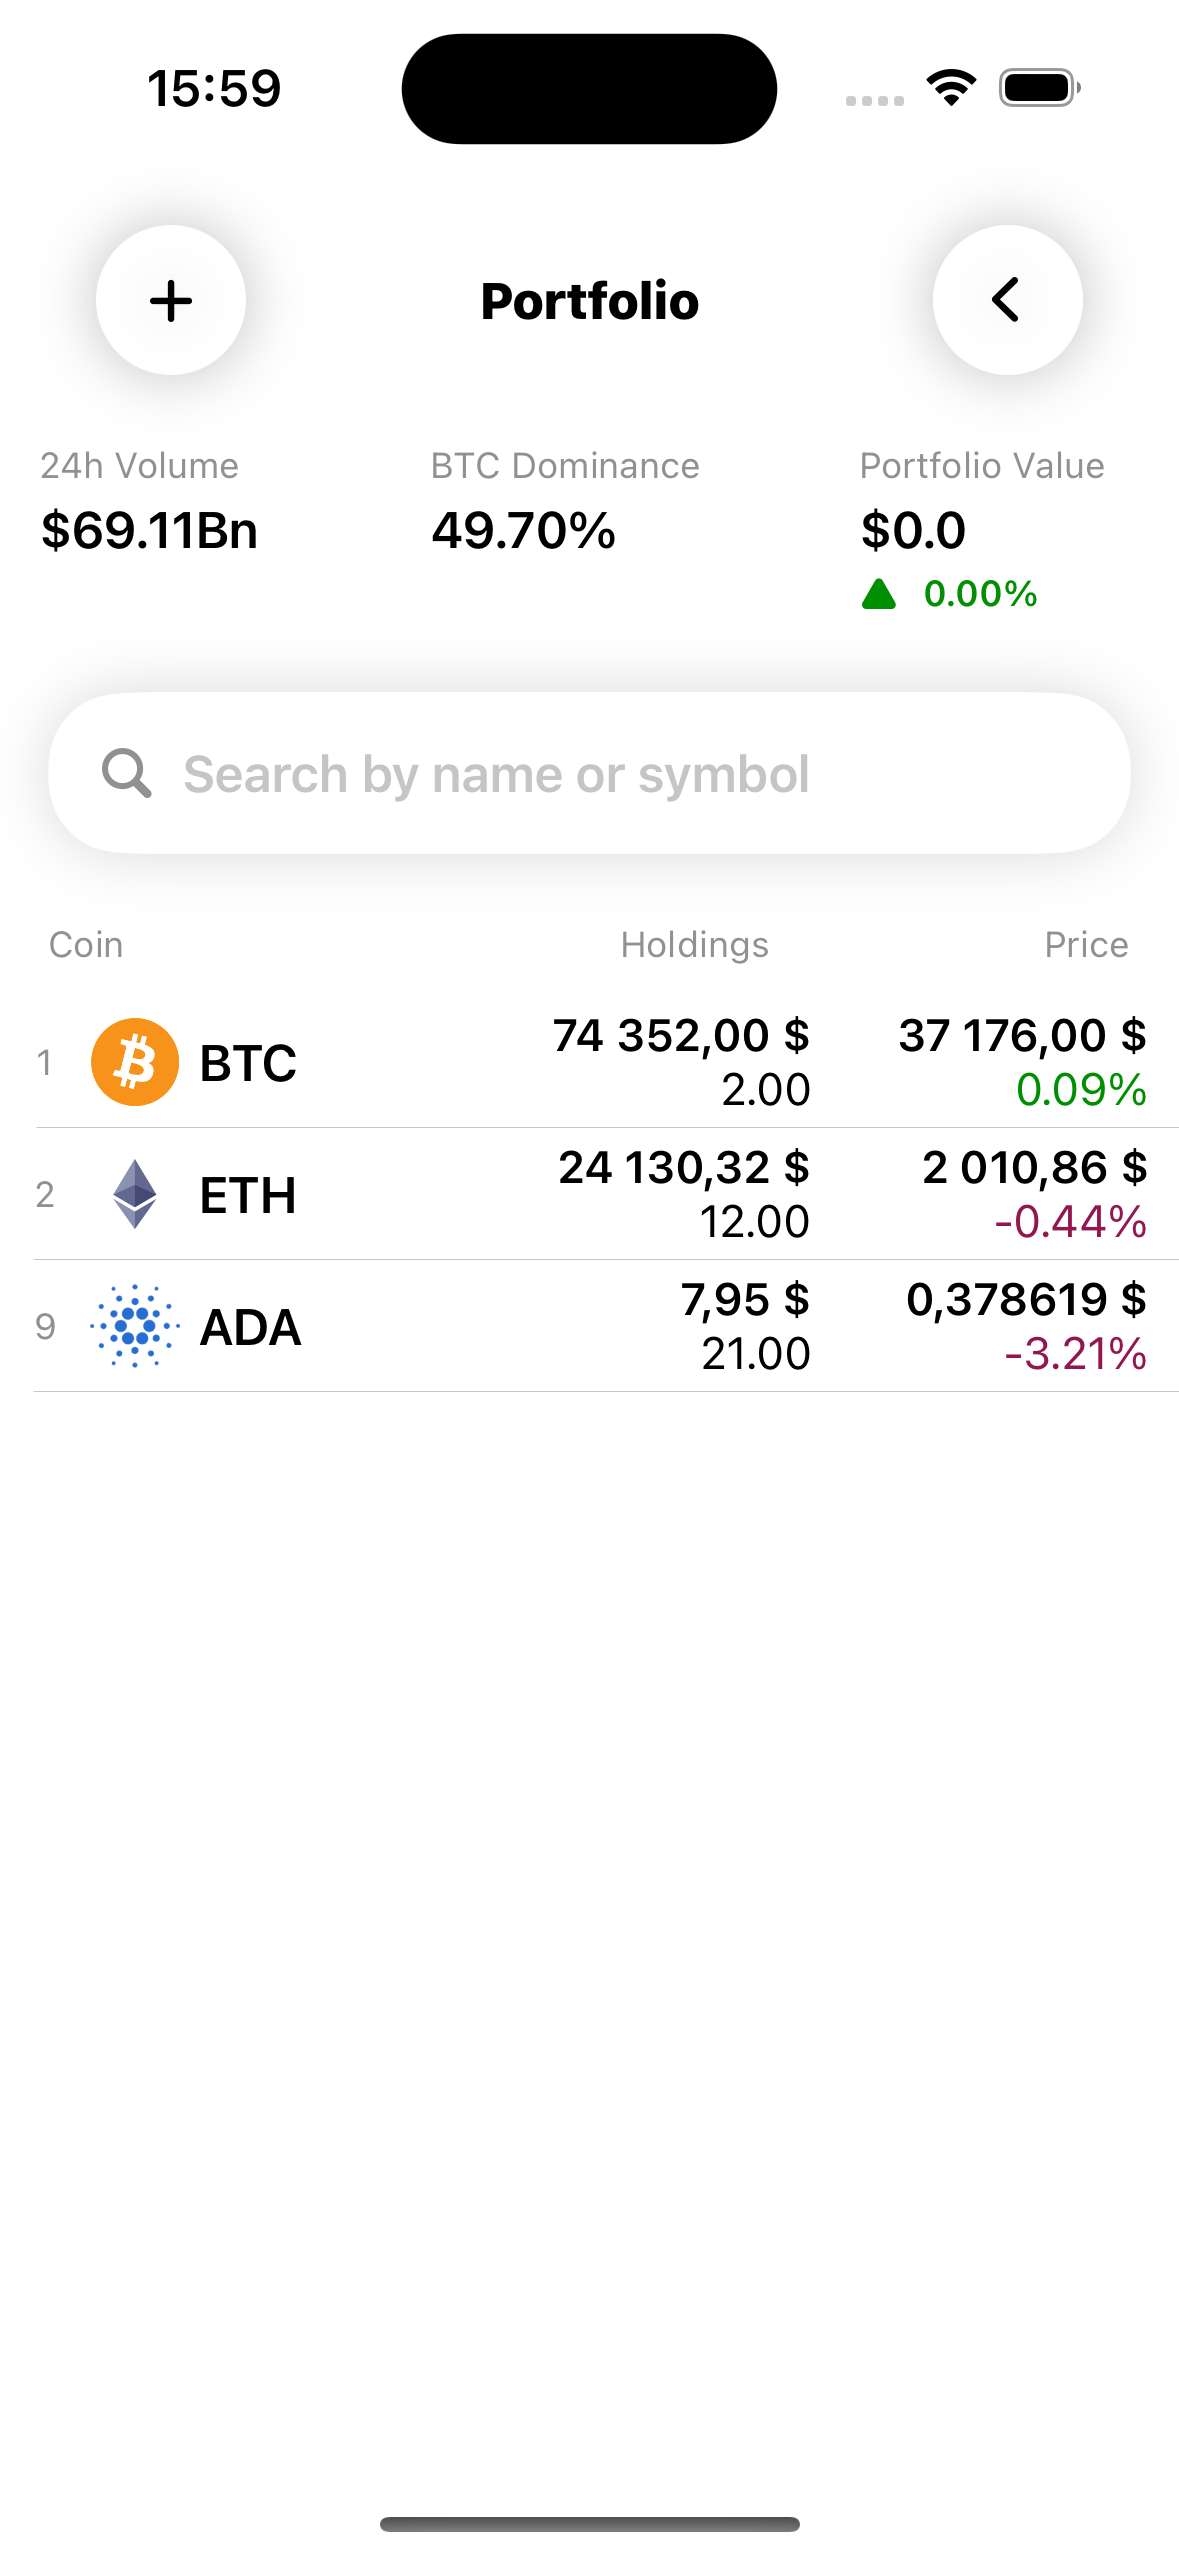
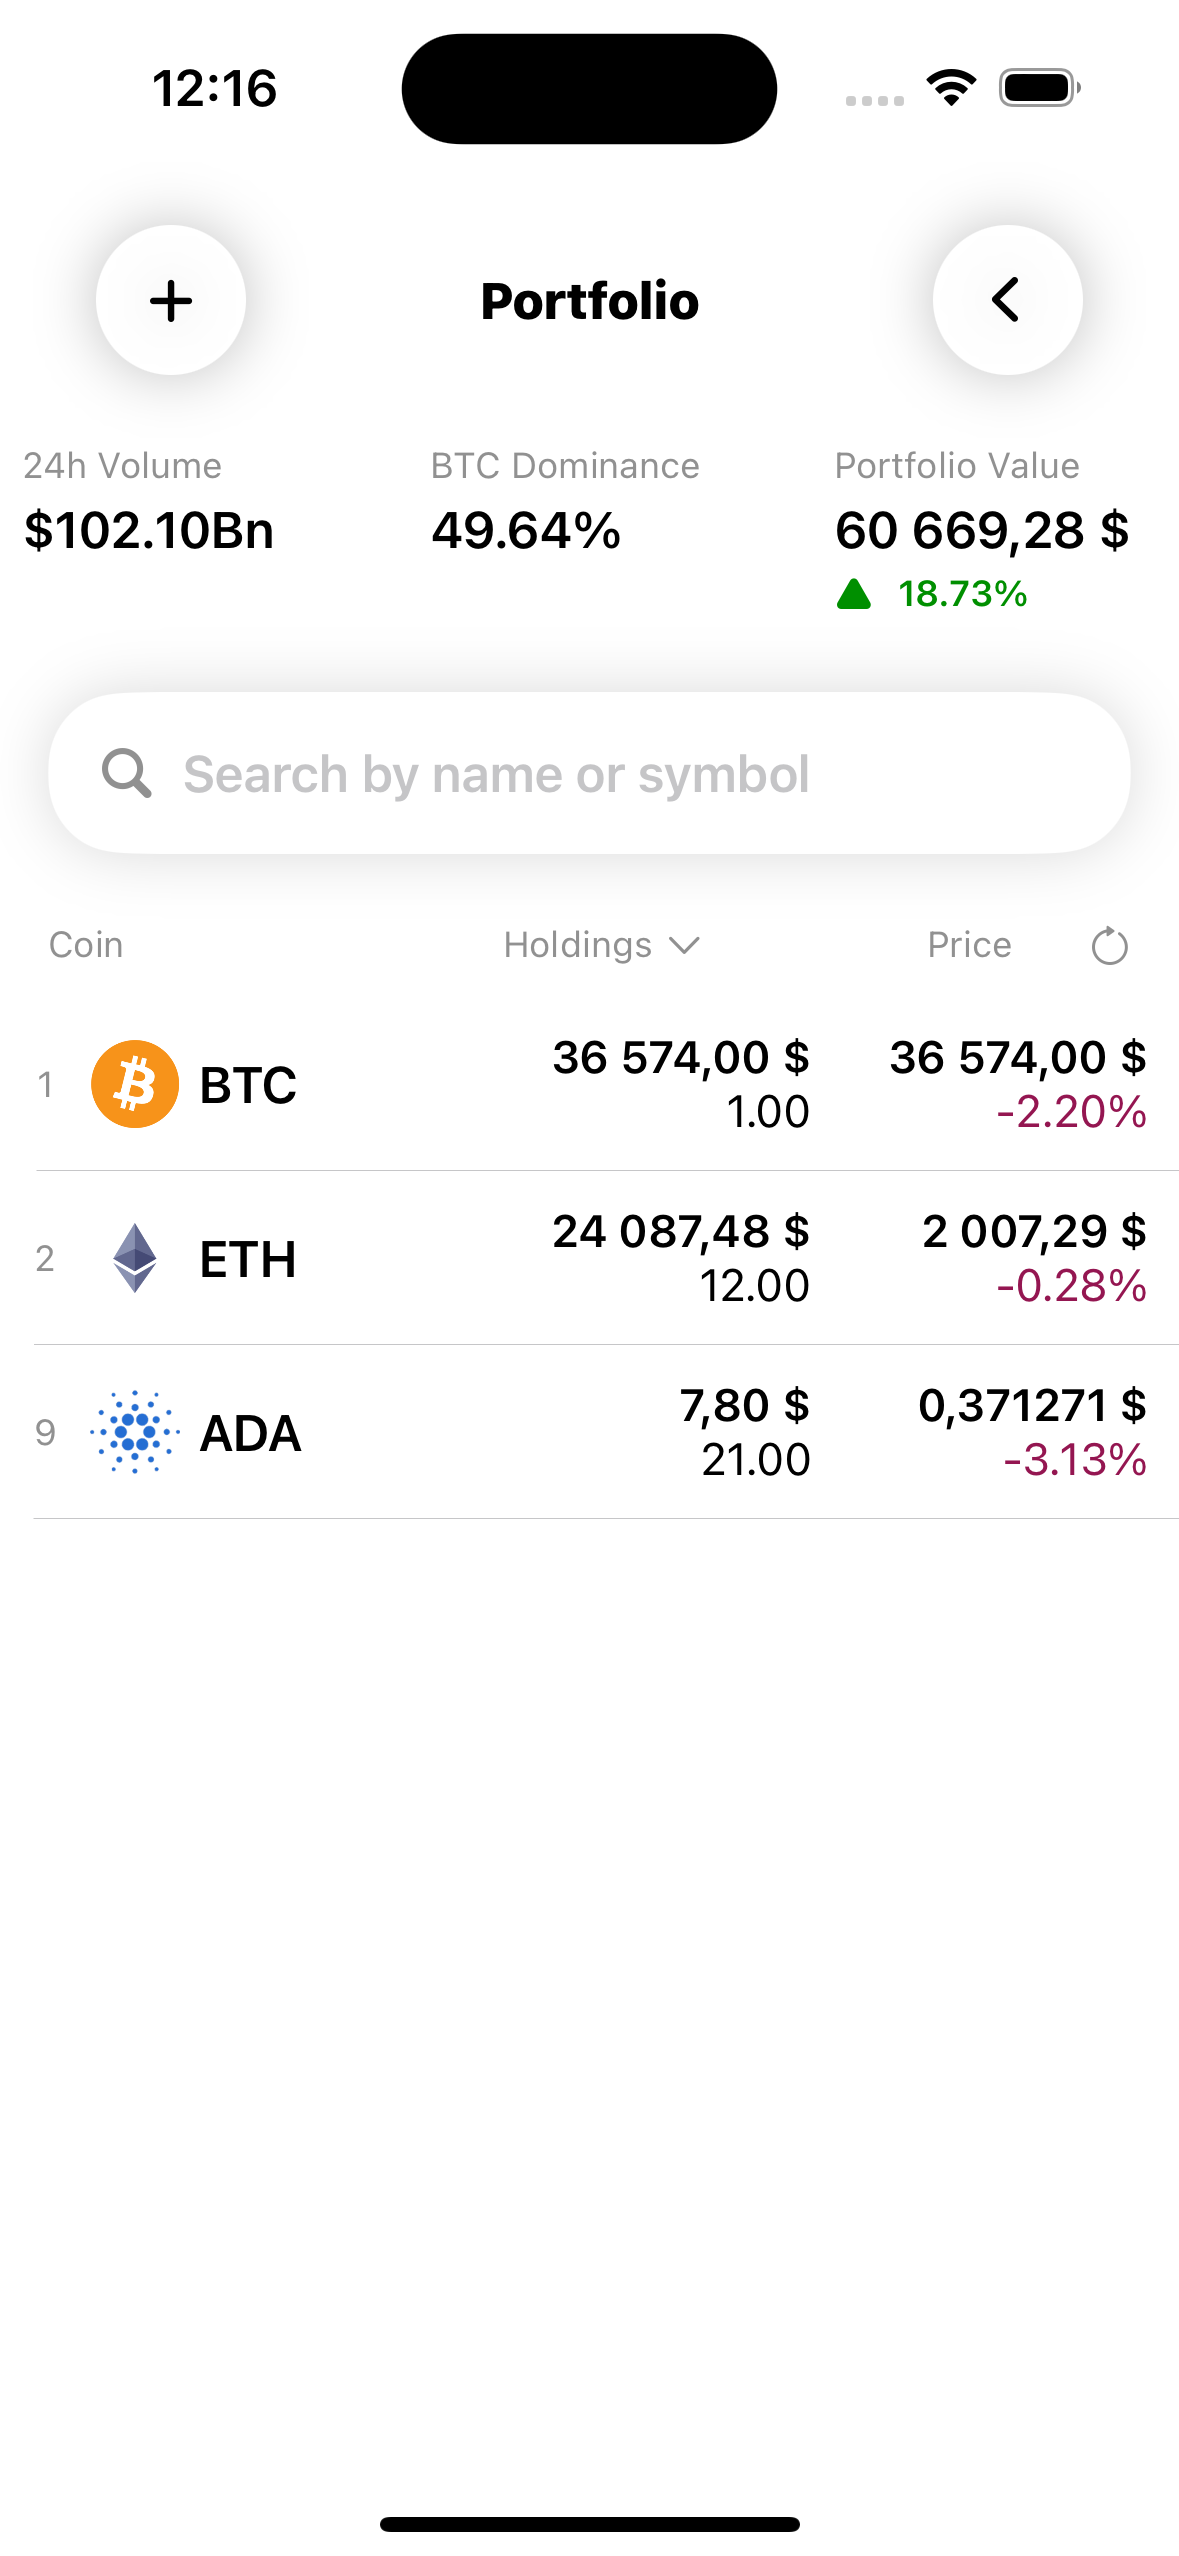
add sort

diff --git a/CryptoMonitoring/Core/HomeScreen/ViewModels/HomeViewModel.swift b/CryptoMonitoring/Core/HomeScreen/ViewModels/HomeViewModel.swift
@@ -8,22 +8,30 @@ class HomeViewModel: ObservableObject {
     @Published var portfolioCoins: [CoinModel] = []
     @Published var isLoading: Bool = false
     @Published var searchText: String = ""
+    @Published var sortOption: SortOption = .holdings
 
     private let coinDataService = CoinDataService()
     private let marketDataService = MarketDataService()
     private var portfolioDataService = PortfolioDataService()
     private var cancellables = Set<AnyCancellable>()
 
+    enum SortOption {
+        case rank, rankReversed
+        case holdings, holdingsReversed
+        case price, priceReversed
+    }
+
     init() {
         self.addSubscribers()
     }
 
+    /// Gets allCoins, portfolioCoins, statistics
     func addSubscribers() {
         // Updates allCoins
         $searchText
-            .combineLatest(coinDataService.$allCoins)
+            .combineLatest(coinDataService.$allCoins, $sortOption)
             .debounce(for: .seconds(0.5), scheduler: DispatchQueue.main)
-            .map(filterCoins)
+            .map(filterAndSortCoins)
             .sink { [weak self] (returnedCoins) in
                 self?.allCoins = returnedCoins
             }
@@ -33,7 +41,8 @@ class HomeViewModel: ObservableObject {
             .combineLatest(portfolioDataService.$savedEntitise)
             .map(mapPortfolioCoins)
             .sink { [weak self] (returnedCoins) in
-                self?.portfolioCoins = returnedCoins
+                guard let self = self else { return }
+                self.portfolioCoins = self.sortPortfolioCoinsIfNeeded(coins: returnedCoins)
             }
             .store(in: &cancellables)
         // Updates statistics
@@ -47,14 +56,24 @@ class HomeViewModel: ObservableObject {
             .store(in: &cancellables)
     }
 
+    /// Refreshes portfolio after changes
     func updatePortfolio(coin: CoinModel, amount: Double) {
         self.portfolioDataService.updatePortfolio(coin: coin, amount: amount)
     }
 
+    /// Refreshes coins prices and persentage
     func updateCoinsData() {
         isLoading = true
         self.coinDataService.getCoins()
         self.marketDataService.getMarketData()
+        HapticManager.notification(type: .success)
+    }
+
+    ///  For updating and sorting allCoins
+    private func filterAndSortCoins(text: String, coins: [CoinModel] ,sort: SortOption) -> [CoinModel] {
+        var allCoins = filterCoins(text: text, coins: coins)
+        sortCoins(sort: sort, coins: &allCoins)
+        return allCoins
     }
 
     ///  For updating allCoins
@@ -65,6 +84,25 @@ class HomeViewModel: ObservableObject {
             return coin.name.lowercased().contains(lowercasedText) ||
             coin.symbol.lowercased().contains(lowercasedText) ||
             coin.id.lowercased().contains(lowercasedText)
+        }
+    }
+
+    ///  For sorting allCoins
+    private func sortCoins(sort: SortOption, coins: inout [CoinModel]) {
+        switch sort {
+        case .rank, .holdings: coins.sort(by: { $0.rank < $1.rank })
+        case .rankReversed, .holdingsReversed: coins.sort(by: { $0.rank > $1.rank })
+        case . price: coins.sort(by: { $0.currentPrice < $1.currentPrice })
+        case . priceReversed: coins.sort(by: { $0.currentPrice > $1.currentPrice })
+        }
+    }
+
+    ///  For sorting portfolioCoins only by holdings
+    private func sortPortfolioCoinsIfNeeded(coins: [CoinModel]) -> [CoinModel] {
+        switch sortOption {
+        case .holdings: return coins.sorted(by: { $0.currentHoldingsValue > $1.currentHoldingsValue })
+        case .holdingsReversed: return coins.sorted(by: { $0.currentHoldingsValue < $1.currentHoldingsValue })
+        default: return coins
         }
     }
 

diff --git a/CryptoMonitoring/Core/HomeScreen/Views/HomeView.swift b/CryptoMonitoring/Core/HomeScreen/Views/HomeView.swift
@@ -47,24 +47,57 @@ extension HomeView {
     }
     private var ColumnTitles: some View {
         HStack {
-            Text("Coin")
+            HStack(spacing: 4){
+                Text("Coin")
+                Image(systemName: "chevron.down")
+                    .opacity((vm.sortOption == .rank || vm.sortOption == .rankReversed) ? 1.0 : 0.0)
+                    .rotationEffect(Angle(degrees: vm.sortOption == .rank ? 0 : 180))
+            }
+            .onTapGesture {
+                withAnimation(.default) {
+                    vm.sortOption = (vm.sortOption == .rank) ? .rankReversed : .rank
+                }
+            }
             Spacer()
             if showPortfolio {
-                Text("Holdings")
-            }
-            Text("Price")
-                .frame(width: UIScreen.main.bounds.width / 3.5,alignment: .trailing)
-            Button(action: {
-                withAnimation(.linear(duration: 1.5)) {
-                    vm.updateCoinsData()
+                HStack(spacing: 4){
+                    Text("Holdings")
+                    Image(systemName: "chevron.down")
+                        .opacity((vm.sortOption == .holdings || vm.sortOption == .holdingsReversed) ? 1.0 : 0.0)
+                        .rotationEffect(Angle(degrees: vm.sortOption == .holdings ? 0 : 180))
                 }
-            },label: {
-                Image(systemName: "goforward")
-            }).rotationEffect(Angle(degrees: vm.isLoading ? 360 : 0), anchor: .center)
+                .onTapGesture {
+                    withAnimation(.default) {
+                        vm.sortOption = (vm.sortOption == .holdings) ? .holdingsReversed : .holdings
+                    }
+                }
+            }
+            HStack(spacing: 4){
+                Text("Price")
+                Image(systemName: "chevron.down")
+                    .opacity((vm.sortOption == .price || vm.sortOption == .priceReversed) ? 1.0 : 0.0)
+                    .rotationEffect(Angle(degrees: vm.sortOption == .price ? 0 : 180))
+            }
+            .frame(width: UIScreen.main.bounds.width / 3.5,alignment: .trailing)
+            .onTapGesture {
+                withAnimation(.default) {
+                    vm.sortOption = (vm.sortOption == .price) ? .priceReversed : .price
+                }
+            }
+            RefreshButton
         }
         .font(.caption)
         .foregroundColor(.theme.secondaryText)
         .padding(.horizontal)
+    }
+    private var RefreshButton: some View {
+        Button(action: {
+            withAnimation(.linear(duration: 1.5)) {
+                vm.updateCoinsData()
+            }
+        },label: {
+            Image(systemName: "goforward")
+        }).rotationEffect(Angle(degrees: vm.isLoading ? 360 : 0), anchor: .center)
     }
     private var allCoinsList: some View {
         List {

diff --git a/CryptoMonitoring/Utilities/HapticManager.swift b/CryptoMonitoring/Utilities/HapticManager.swift
@@ -1,0 +1,11 @@
+import Foundation
+import SwiftUI
+
+class HapticManager {
+
+    static private let generator = UINotificationFeedbackGenerator()
+
+    static func notification(type: UINotificationFeedbackGenerator.FeedbackType) {
+        generator.notificationOccurred(type)
+    }
+}

diff --git a/CryptoMonitoring/Core/HomeScreen/Views/CoinRowView.swift b/CryptoMonitoring/Core/HomeScreen/Views/CoinRowView.swift
@@ -13,7 +13,9 @@ struct CoinRowView: View {
                 midColumn
             }
             rightColumn
-        }.font(.subheadline)
+        }
+        .font(.subheadline)
+        .padding(.vertical, 1)
     }
 }
 
